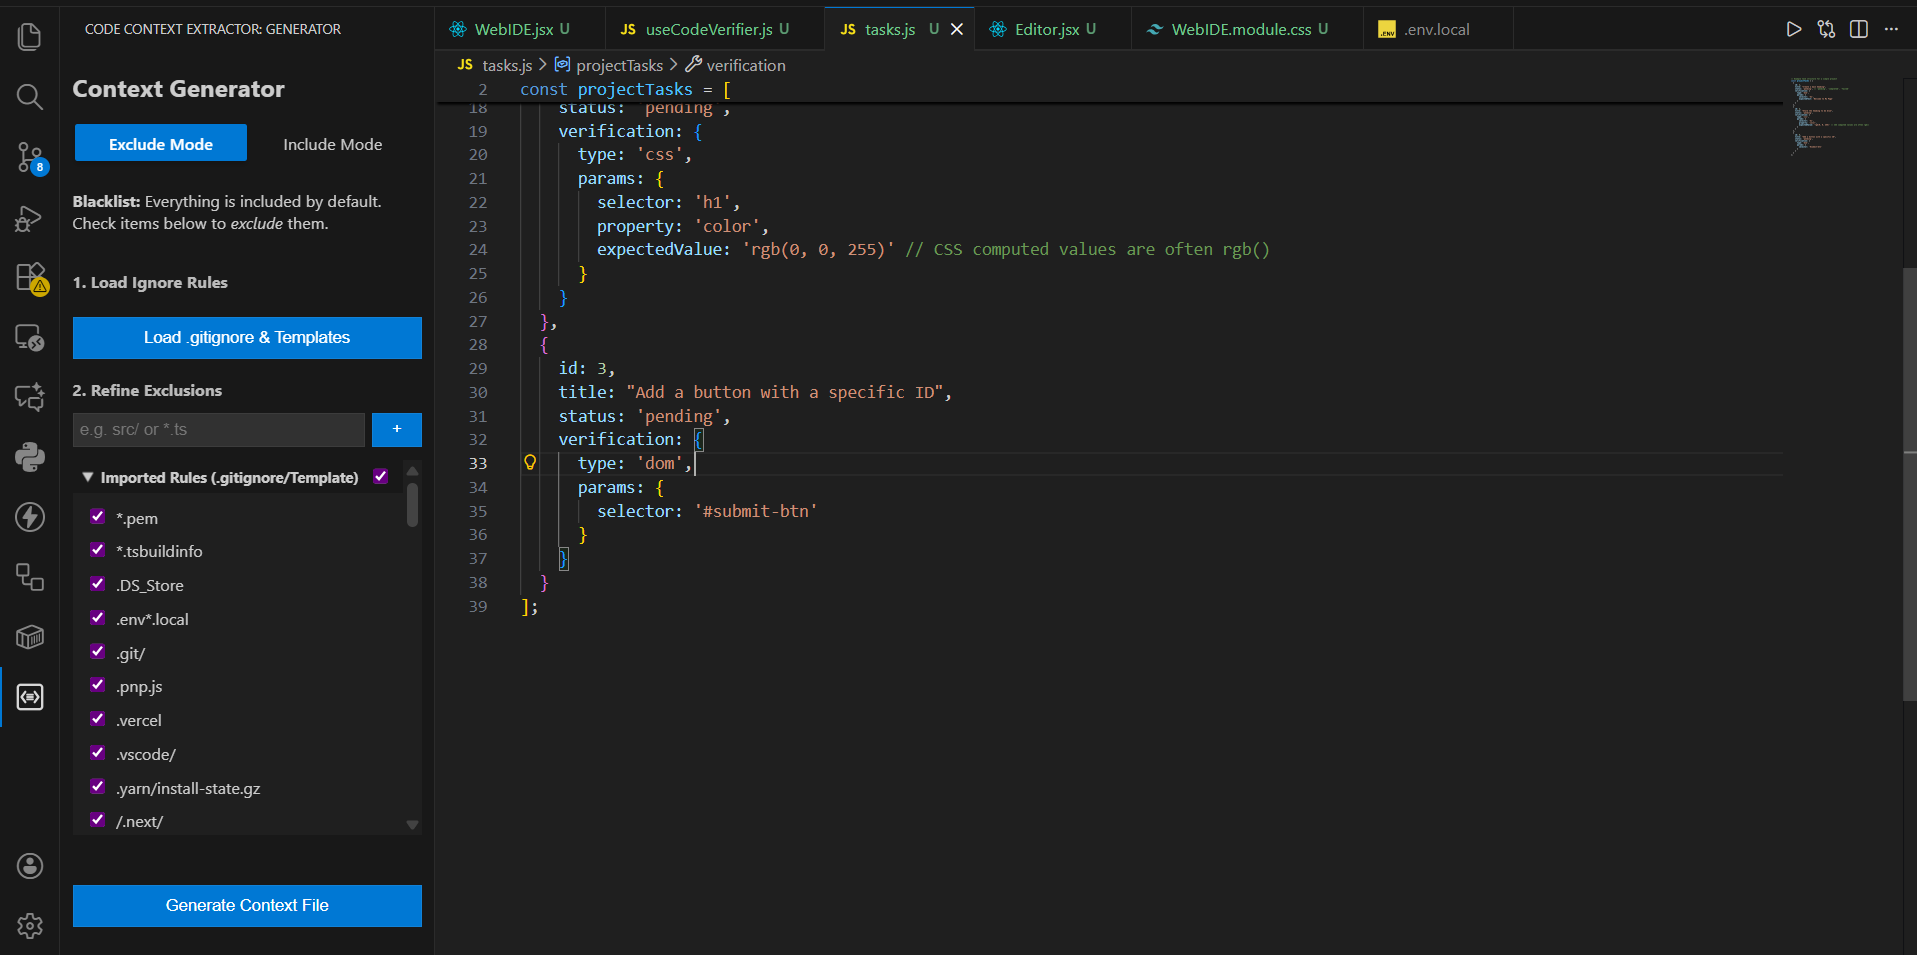
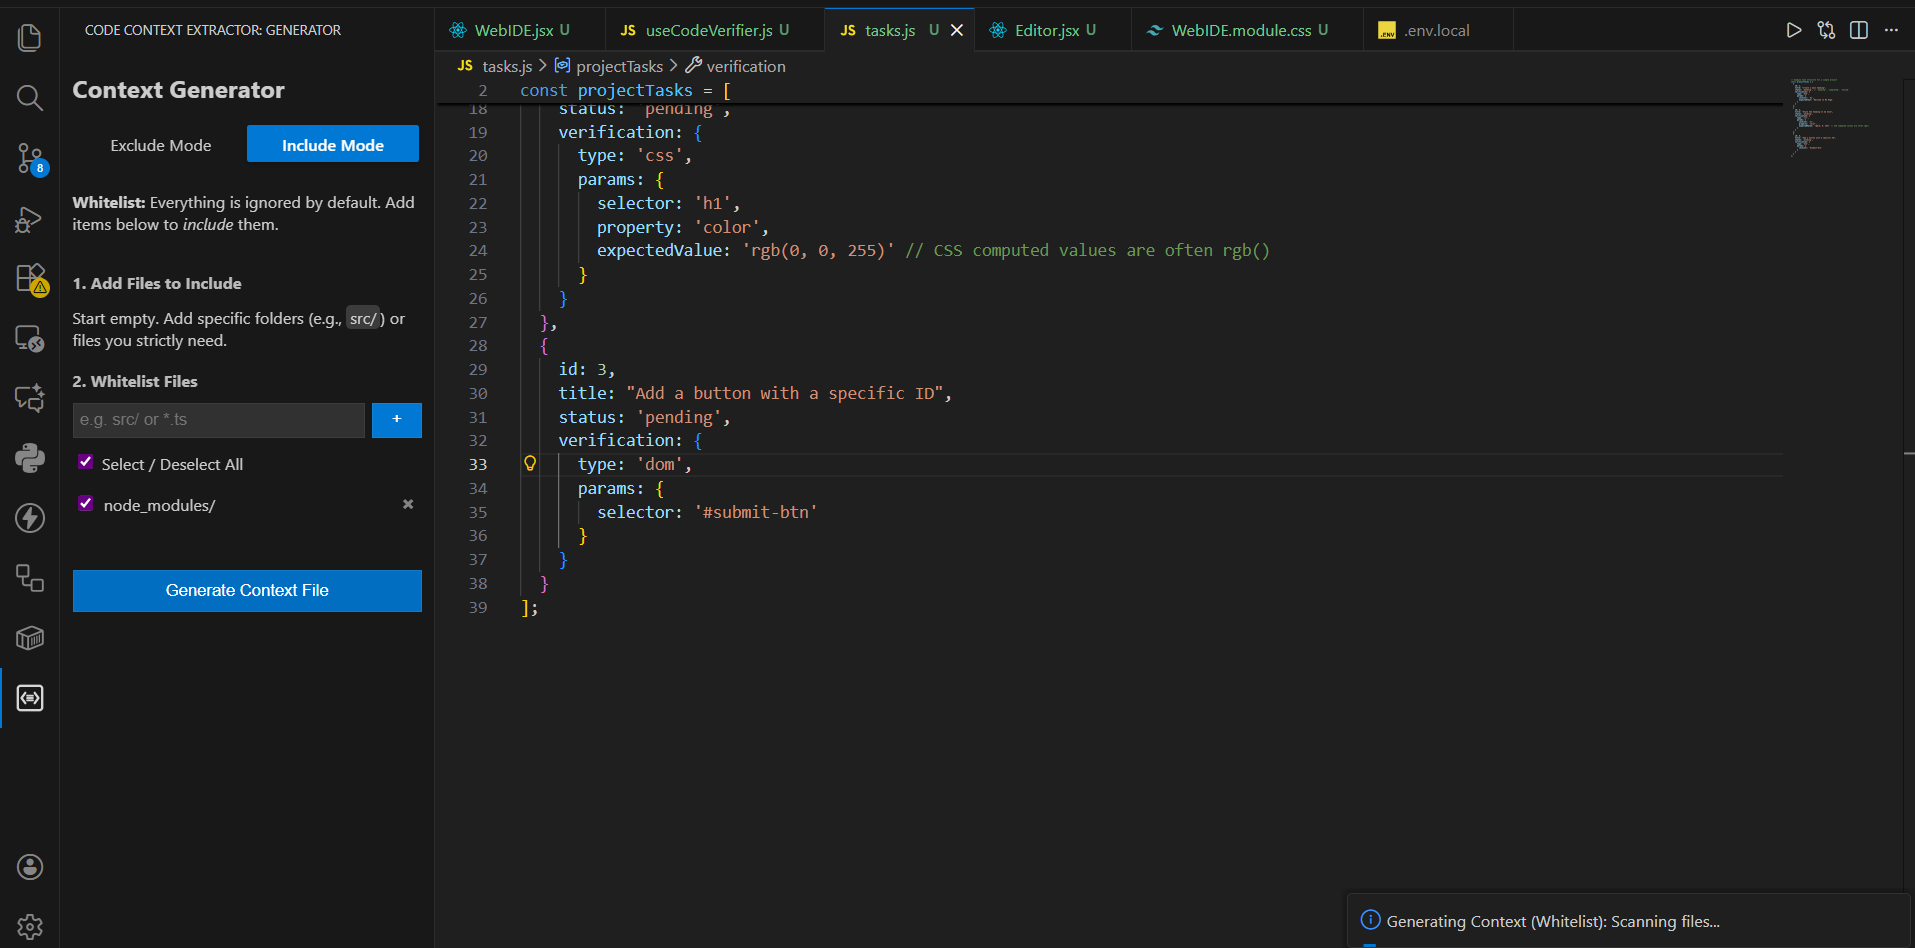
issue/fix ocnfission on excluded image and included image

diff --git a/CHANGELOG.md b/CHANGELOG.md
@@ -4,7 +4,7 @@ All notable changes to the "code-context-extractor" extension will be documented
 
 Check [Keep a Changelog](http://keepachangelog.com/) for recommendations on how to structure this file.
 
-## [1.2.0]
+## [1.3.0]
 
 ### Added
 - **Whitelist (Include) Mode**: Added a new mode to start with an empty context and strictly select specific files or folders to include.

diff --git a/README.md b/README.md
@@ -59,7 +59,7 @@ This extension contributes the following settings:
 
 ## Release Notes
 
-### 1.2.0
+### 1.3.0
 - **Major Feature Update**:
     - Introduced **Whitelist (Include) Mode** for targeted context extraction.
     - Added **Binary File Detection** to prevent binary content corruption.
